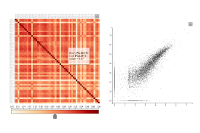
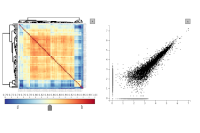
The examples updated

diff --git a/docs/src/addGallery.js b/docs/src/addGallery.js
@@ -1,7 +1,7 @@
 //put here short description for each example
-var descrEx = [
-		"Correlation heatmap, 57 RNA-Seq samples, 8000 genes", 
-		"MA plot, tumor vs. normal tissue comparison. 57 RNA-Seq samples, ~60000 genes (datafile size is ~20MB, loading may take a while)", 
+var titleEx = [
+		"Correlation of 57 RNA-Seq samples, 8000 genes", 
+		"MA plot, tumor vs. normal tissue comparison(datafile size is ~20MB, loading may take a while)", 
 		"Single cell RNA-Seq, cord blood. 2000 cells, ~6000 genes (datafile size is ~20MB, loading may take a while)", 
 		"Single cell RNA-Seq, cord blood. ~8000 cells with abundance of 13 protein markers.", 
 		"example5", 
@@ -15,8 +15,14 @@ var descrEx = [
 		"rlc/tutorials/citeseq2.html", 
 		"", 
 		""
-	];
-var lastEx = descrEx.length, currentEx = 1,
+	],
+	captionEx = [
+		'Samples correlation from <a href="https://doi.org/10.18632/oncotarget.5529">Conway et al. (2015)</a>. There, mRNA in 57 samples from 19 patients with oral cancer was sequenced. From each patient, there is a cancerous, normal and dysplasia tissue sample. The heatmap shows the overall correlation of the samples. To examine the correlation value for any two samples, please, click on the corresponding cell. The scatter plot will immediately change to display the gene expression values (CPMs) for the two selected samples against each other, thus allowing us to intuitively explore the overview plot. Here, only the expression of 8000 randomly selected genes is displayed to avoid long data download time. Try also clicking on any branch of a dendrogram to recluster the samples based only on the selected features.<br><br>To run the provided code, please, download the following data:<br><b>For R:</b> <a href="https://anders-biostat.github.io/linked-charts/rlc/tutorials/oscc/oscc.rda">ocss.rda</a><br><b>For JS:</b> <a href="https://github.com/anders-biostat/linked-charts/raw/master/docs/rlc/tutorials/oscc/maData.js">maData.js</a> and <a href="https://github.com/anders-biostat/linked-charts/raw/master/docs/rlc/tutorials/oscc/heatmapData.js">heatmapData.js</a>',
+		'Overview of genes differentially expressed in cancerous and normal tissues from <a href="https://doi.org/10.18632/oncotarget.5529">Conway et al. (2015)</a>. MA plot (to the left) shows all the sequenced genes with their average expression on X-axis and log-fold change on Y-axis. Red indicates genes, where the difference was reported as significant by the <a href="https://bioconductor.org/packages/release/bioc/html/limma.html">"limma"</a> package. Plot to the left shows expression values (CPMs) for a selected gene and all the patients. When the user clicks on a point of the MA plot, the expression plot changes, showing the new selected gene. In such a way, one can check immediately, whether the genes, labeled as significantly different, are interesting for further study.<br><br>To run the provided code, please, download the following data:<br><b>For R:</b> <a href="https://anders-biostat.github.io/linked-charts/rlc/tutorials/oscc/oscc.rda">ocss.rda</a><br><b>For JS:</b> <a href="https://github.com/anders-biostat/linked-charts/raw/master/docs/rlc/tutorials/oscc/maData.js">maData.js</a> and <a href="https://github.com/anders-biostat/linked-charts/raw/master/docs/rlc/tutorials/oscc/heatmapData.js">heatmapData.js</a>'
+
+	],
+	aspect_ratios = {1: "50%", 2: "46%", 3: "63%"};
+var lastEx = titleEx.length, currentEx = 1,
 	showEx = d3.range(6).map(e => e + 1);
 
 d3.select(".gallery")
@@ -46,6 +52,11 @@ d3.select(".gallery")
 	.append("div")
 		.attr("class", "caption-container")
 			.append("p")
+				.attr("id", "caption-title");
+
+d3.select(".gallery")
+	.select(".caption-container")
+			.append("p")
 				.attr("id", "caption");
 
 d3.select(".gallery")
@@ -60,8 +71,11 @@ function changeSlides(shift) {
 		.select(".numbertext")
 			.text(currentEx + "/" + lastEx);
 	d3.select(".gallery")
+		.select("#caption-title")
+			.html(titleEx[currentEx - 1]);
+	d3.select(".gallery")
 		.select("#caption")
-			.html(descrEx[currentEx - 1]);
+		.html(captionEx[currentEx - 1]);
 
 	if(showEx.indexOf(currentEx) == -1) {
 		showEx = showEx.map(e => (e + shift) % lastEx).map(e => e == 0 ? lastEx : e);
@@ -73,6 +87,10 @@ function changeSlides(shift) {
 			.classed("active", false)
 			.filter(d => d == currentEx)
 				.classed("active", true);
+
+	d3.select(".gallery")
+		.select(".aspect-ratio")
+			.style("padding-bottom", aspect_ratios[currentEx] || "51%");
 }
 
 function changeThumb() {
@@ -120,10 +138,10 @@ d3.select(".gallery")
 					.on("click", function(d) {
 						if(d == 0)
 							window.open(document.location.origin + "/linked-charts/gallery/ex" + currentEx + "/code_R.html", 
-								"R code for the example", "width=600,height=600");
+								"R code for the example", "width=700,height=600");
 						if(d == 1)
 							window.open(document.location.origin + "/linked-charts/gallery/ex" + currentEx + "/code_JS.html", 
-								"JavaScript code for the example", "width=600,height=600");
+								"JavaScript code for the example", "width=700,height=600");
 						if(d == 2)
 							window.open(document.location.origin + "/linked-charts/" + linkEx[currentEx - 1]);
 					})

diff --git a/docs/gallery/ex1/index.html b/docs/gallery/ex1/index.html
@@ -7,25 +7,30 @@
 <div id = "heatmap-scatter">
 <table>
    <tr>
-      <td id = "heatmap"></td>
-      <td id = "scatter"></td>
+      <td id = "heatmap" style="padding: 0px"></td>
+      <td id = "scatter" style="padding: 0px"></td>
    </tr>
 </table>
 </div>	
 	<script type="text/javascript">
 
-var xSample = -1, ySample = -1;
+var xSample = 0, ySample = 1,
+	size = window.innerWidth - 10;
+
+console.log(size);
 
 var hm = lc.heatmap()
-	.width(() => window.innerWidth * 0.45)
-	.height(() => window.innerWidth * 0.35)
+	.width(() => size * 0.48)
+	.height(() => size * 0.48 - 80)
 	.nrows(hData.sampleNames.length)
 	.ncols(hData.sampleNames.length)
 	.value((i, j) => hData.corrMat[i][j])
 	.rowLabel(i => hData.sampleNames[i])
 	.colLabel(i => hData.sampleNames[i])
+	.clusterCols(true)
+	.clusterRows(true)
 	.showLegend(false)
-	.paddings({top: 30, left: 30, right: 5, bottom: 5})
+	.paddings(() => ({top: size * 0.03, left: size * 0.03 + 40, right: size * 0.025 + 40, bottom: size * 0.025}))
 	.on_click(function(row, col) {
 		xSample = row;
 		ySample = col;
@@ -34,19 +39,26 @@ var hm = lc.heatmap()
 	.place(d3.select("#heatmap-scatter").select("#heatmap"));
 
 var sch = lc.scatter()
-	.width(() => window.innerWidth * 0.45)
-	.height(() => window.innerWidth * 0.45)
+	.width(() => size * 0.48)
+	.height(() => size * 0.48)
 	.x(i => Math.log10(hData.countMatrix[i][xSample] + 1))
 	.y(i => Math.log10(hData.countMatrix[i][ySample] + 1))
-	.size(0.7)
+	.size(1.5)
 	.showLegend(false)
 	.opacity(0.7)
 	.place(d3.select("#heatmap-scatter").select("#scatter"));
 
-lc.colourSlider()
-	.width(() => window.innerWidth * 0.45)
+var slider = lc.colourSlider()
+	.width(() => size * 0.48)
 	.linkedChart(hm)
 	.place(d3.select("#heatmap-scatter").select("#heatmap"));
+
+window.addEventListener("resize", () => {
+	size = window.innerWidth - 10;
+	hm.update();
+	sch.update();
+	slider.update();
+})
 
 	</script>
 </body>

diff --git a/docs/gallery/ex2/index.html b/docs/gallery/ex2/index.html
@@ -14,17 +14,18 @@
 </div>	
 	<script type="text/javascript">
 
-var selGene = 0;
+var selGene = 0,
+	size = window.innerWidth;
 
-lc.scatter()
+var maPlot = lc.scatter()
 	.x(i => maData.pvals[i].AveExpr)
 	.y(i => maData.pvals[i].tissuetumour)
 	.colour(i => maData.pvals[i]["adj.P.Val"] < 0.1 ? "red" : "black")
 	.label(i => maData.geneNames[i])
 	.size(1.3)
 	.on_click(i => {selGene = i; exprPlot.update();})
-	.width(window.innerWidth * 0.4)
-	.height(window.innerWidth * 0.4)
+	.width(() => (size - 100) * 0.48)
+	.height(() => (size - 100) * 0.48)
 	.set_paddings({left: 15})
 	.place(d3.select("#ma-expr").select("#ma"));
 
@@ -36,11 +37,17 @@ var exprPlot = lc.scatter()
 	.title(function() {return maData.geneNames[selGene]})
 	.axisTitleY("counts per million (CPM)")
 	.ticksRotateX(45)
-	.width(window.innerWidth * 0.4)
-	.height(window.innerWidth * 0.4)
+	.width(() => (size - 100) * 0.48)
+	.height(() => (size - 100) * 0.48)
 	.place(d3.select("#ma-expr").select("#expr"));
 
-exprPlot.legend.width(110).update();
+exprPlot.legend.width(100).update();
+
+window.addEventListener("resize", () => {
+	size = window.innerWidth;
+	maPlot.update();
+	exprPlot.update();
+})
 
 	</script>
 </body>

diff --git a/docs/src/style.css b/docs/src/style.css
@@ -79,6 +79,7 @@ div.contentContainer {
 
 section#content {
   text-align: justify;
+  max-width: 1000px;
 }
 
 nav.tocContainer {
@@ -200,7 +201,6 @@ pre code {
   position: relative;
   width: 100%;
   height: 0;
-  padding-bottom: 51%;
 }
 
 .gallery .aspect-ratio iframe {
@@ -244,13 +244,21 @@ pre code {
 }
 
 .gallery .caption-container {
-  text-align: center;
+  text-align: justify;
   background-color: #e9e9f9;
   padding: 2px 16px;
   color: #114;
   border-top: 1px;
   border-color: #224;
   border-top-style: solid;
+}
+
+.gallery #caption-title {
+  border-bottom: 1px dashed #224;
+  padding-bottom: 10px;
+  font-size: 110%;
+  color: black;
+  text-align: center;
 }
 
 .gallery .row:after {

diff --git a/docs/gallery/ex1/code_JS.html b/docs/gallery/ex1/code_JS.html
@@ -2,7 +2,7 @@
 <script type="text/javascript" src="../../src/prism.js"></script>
 
 <pre class="language-javascript line-numbers"><code>
-var xSample = -1, ySample = -1;
+var xSample = 0, ySample = 1;
 
 var hm = lc.heatmap()
    .nrows(hData.sampleNames.length)
@@ -11,6 +11,8 @@ var hm = lc.heatmap()
    .rowLabel(i => hData.sampleNames[i])
    .colLabel(i => hData.sampleNames[i])
    .showLegend(false)
+   .clusterRows(true)
+   .clusterCols(true)
    .on_click(function(row, col) {
       xSample = row;
       ySample = col;

diff --git a/docs/gallery/ex1/code_R.html b/docs/gallery/ex1/code_R.html
@@ -7,6 +7,8 @@ openPage(useViewer = FALSE, layout = "table1x2")
 lc_heatmap(dat(
       value = corrMat,
       showLegend = FALSE,
+      clusterRows = TRUE,
+      clusterCols = TRUE,
       on_click = function(k) {  #  \ 
          sampleX <<- k[1]       #  |  Linking the
          sampleY <<- k[2]       #  |  charts

diff --git a/src/heatmap.js b/src/heatmap.js
@@ -901,7 +901,6 @@ export function heatmap(id, chart){
 	}
 
 	chart.cluster = function(type, features){
-		console.log(type);
 		if(type != "Row" && type != "Col")
 			throw "Error in 'cluster': type " + type + " cannot be recognised. " +
 					"Please, use either 'Row' or 'Col'";

diff --git a/docs/src/linked-charts.css b/docs/src/linked-charts.css
@@ -119,3 +119,11 @@
 .linked-charts line.selected {
 	stroke: red;
 }
+
+.linked-charts .mainTable td {
+	padding: 0px;
+}
+
+.linked-charts .mainTable {
+	border-spacing: 0px;	
+}

diff --git a/lib/linked-charts.css b/lib/linked-charts.css
@@ -119,3 +119,11 @@
 .linked-charts line.selected {
 	stroke: red;
 }
+
+.linked-charts .mainTable td {
+	padding: 0px;
+}
+
+.linked-charts .mainTable {
+	border-spacing: 0px;	
+}

diff --git a/docs/index.md b/docs/index.md
@@ -8,16 +8,12 @@ lang: "none"
 
 ### Create interactive apps with just few lines of code!
 
-"LinkedCharts" is a framework for visual data exploration, built on top of [D3](http://d3js.org).
-It is available as a JavaScript library or you can use it from **R** statistical programming environment. 
+"LinkedCharts" is a framework for visual data exploration, built on top of [D3](http://d3js.org). It is available as a **JavaScript** library, or you can use it from **R** statistical programming environment. 
 
-It makes it easy to very rapidly set up "mini-apps" to explore a data set. These mini apps display the data in "linked" 
-charts. By "linking", we mean that a user's interaction with one chart controls what another chart shows.
+It makes it easy to very rapidly set up "mini-apps" to explore a data set. These mini-apps display the data in "linked" charts. By "linking", we mean that a user's interaction with one chart controls what another chart shows.
 
-To get a better grasp of how it works, check the interactive examples in the gallery bellow. For each examle 
-you can get R or JavaScript code used to generate it.
-You can also go to the tutorial page, where you can find detailed information about the example.
+To get a better grasp of how it works, check the interactive examples in the gallery below. For each example, you can check R or JavaScript code used to generate it. You can also go to the tutorial page, where you can find detailed information about the example.
 
-Click **R** or **Javascript** button in the navigation panel to get more information about each of the versions.
+Click an **R** or **Javascript** button in the navigation panel to get more information about each version.
 
 <div class="gallery"></div>
